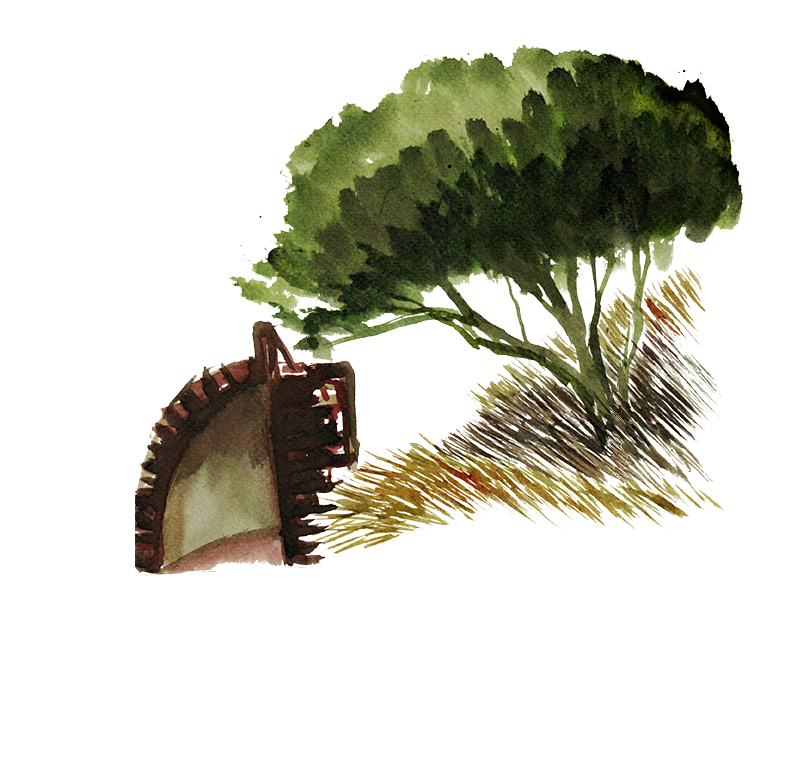
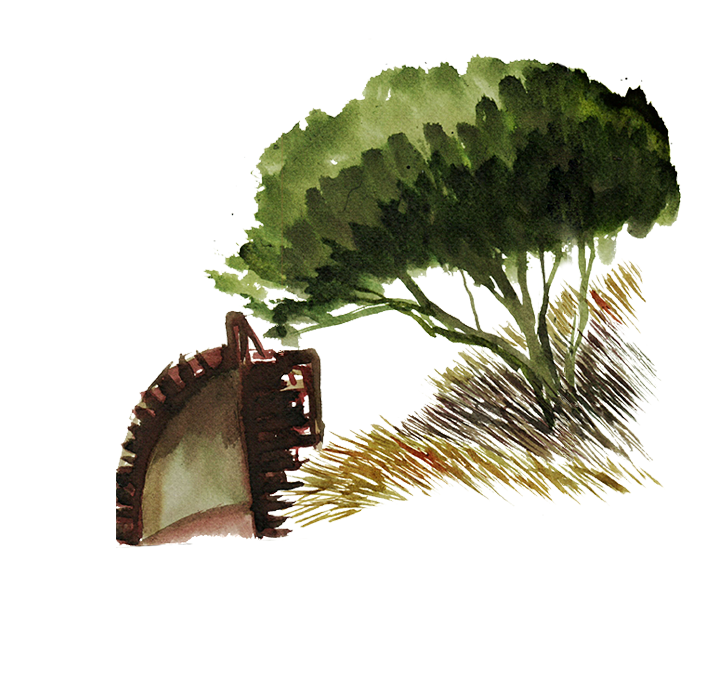
cambio menú

Changed region(s): [[0.1551, 0.0617, 0.9619, 0.8018]]

diff --git a/css/cascada.css b/css/cascada.css
@@ -7,16 +7,16 @@ body{
 	background-repeat:repeat;
 	background-size: 100%;
 	background-attachment: fixed;
-	margin:0px;
-	border: 0px;
+	margin:0%;
+	border: 0%;
 	
 }
 
 #header{
-	margin: 0px, 0px, 0px, 0px;
+	margin: 0%;
 }
 .encabezado{
-	width: 960px;
+	width: 650px;
 	height: 400px;
 	margin: 140px auto;
 	padding: 0px 0px;
@@ -49,29 +49,39 @@ h2{
 }
 
 
-#nav{
-	width: 150px;
-	height: 350px;
+
+#contentnav{
+	width: 100%;
+	height: 5%;
 	position: fixed;
-	top: 160px;
-	left: 20px; 
-	background-color: rgba(3,86,65,.8);
+	top: 635px;
+	padding-left: 8%;
+	z-index: 3;
+	background-color: rgba(10,10,10,.9);
+}
+
+#contentnav.nav{
+	width: 650px;
+	position: fixed;
+	top: 635px;
+	background-color: rgba(10,10,10,.9);
 	padding: 0px;
-	margin: 0px;
+	z-index: 3;
+	border:solid 1px black;
 
 	
 
 }
-#nav ul li{
+.nav ul li{
  	list-style: none;
  	display: inline-block;
  	position: relative;
- 	left: -20px;
+ 	text-align: center;
  	padding: 0px;
-	margin: 9px 0px;
+	margin: 3px 15px;
 
 }
-#nav ul li a{
+.nav ul li a{
 	text-decoration: none;
 	color:#fff;
 	font-family: 'Roboto', sans-serif; 
@@ -79,7 +89,7 @@ h2{
 	font-size: 14px;
 	line-height: 3px;
 }
-#nav ul li a:hover{
+.nav ul li a:hover{
 	color: rgba(30,30,30,.5);
 }
 .activo > a{
@@ -112,6 +122,7 @@ h2{
 }
 
 .img1{
+	width: 300px;
 	position:absolute;
 	left:100px; 
 	top:700px;
@@ -134,7 +145,7 @@ h2{
 	max-width: 1000px;
 	position:absolute;
 	left:400px;
-	top:1000px;
+	top:800px;
 	z-index:3;
 }
 
@@ -149,7 +160,7 @@ h2{
 	margin: 0px auto;
 	z-index: 3;
 	position: relative;
-	top: 200px;
+	top: 80px;
 	width: 100%;
 	height:600px;
 	padding: 0px;
@@ -158,7 +169,7 @@ h2{
 }
 
 .p{
-	width: 920px;
+	width: 650px;
 	height: 300px;
 	margin: 0px auto;
 	padding-left: 50px;
@@ -167,15 +178,14 @@ h2{
 	margin:auto;
 	z-index: 3;
 	position: relative;
-	top:-200px;
-	background-color: rgba(3,86,65,.3);
+	top:-400px;
 }
 
 .p p{
 	font-family: 'Roboto', sans-serif;
 	font-weight: 400;
 	font-size: 16px;
-	color:#fff;
+	color:rgba(0,0,0,.7);
 	
 }
 
@@ -184,28 +194,28 @@ h2{
 .section2{
 	width: 500px;
 	height: auto;
-	float: left;
+	
 }
 
 .img4{
 	max-width: 500px;
 	position:absolute;
 	left:35px; 
-	top:2000px;
+	top:1800px;
 	z-index:-1;
 }
 .img5{
 	max-width: 500px;
 	position:absolute;
 	left:35px; 
-	top:2000px;
+	top:1800px;
 	z-index:1;
 }
 .img6{
 	max-width: 500px;
 	position:absolute;
 	left:35px; 
-	top:2000px;
+	top:1800px;
 	z-index:2;
 }
 
@@ -213,7 +223,7 @@ h2{
 	max-width: 1000px;
 	position:absolute;
 	left:35px;
-	top:2200px;
+	top:1900px;
 	z-index:3;
 }
 

diff --git a/index.html b/index.html
@@ -22,12 +22,16 @@
 	 		</div>
 	 	</div>
  	</header>
- 	<div id="nav">
- 		<ul>
- 			<li><a href="">Recorrido interior</a></li>
- 			<li><a href="">Recorrido interior</a></li>
- 		</ul>
- 	</div>
+ 	<div id="contentnav">
+	 	<div class="nav">
+	 		<ul>
+	 			<li><a href="">Cementerio</a></li>
+	 			<li><a href="">Escultura Adagio Cumplido</a></li>
+	 			<li><a href="">Hospedería del Megaterio</a></li>
+	 			<li><a href="">Vestal del Jardín</a></li>
+	 		</ul>
+	 	</div>
+	 </div>
  	<div id="content"> 
  		<div class="section1">
  			<img src="img/fondo3.png">
